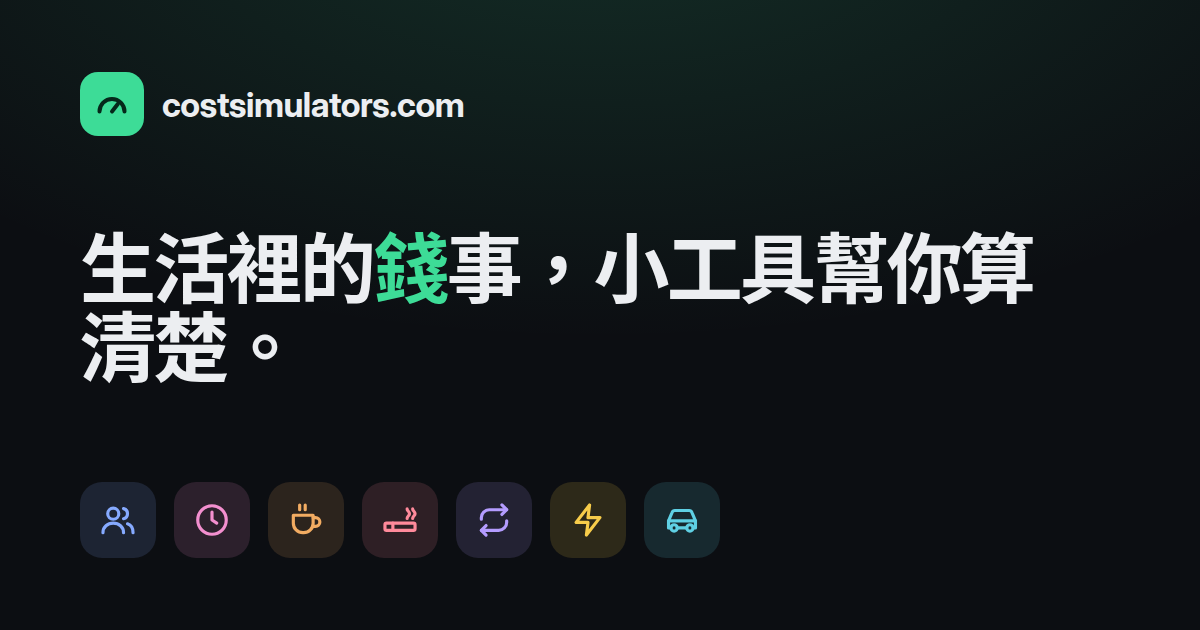
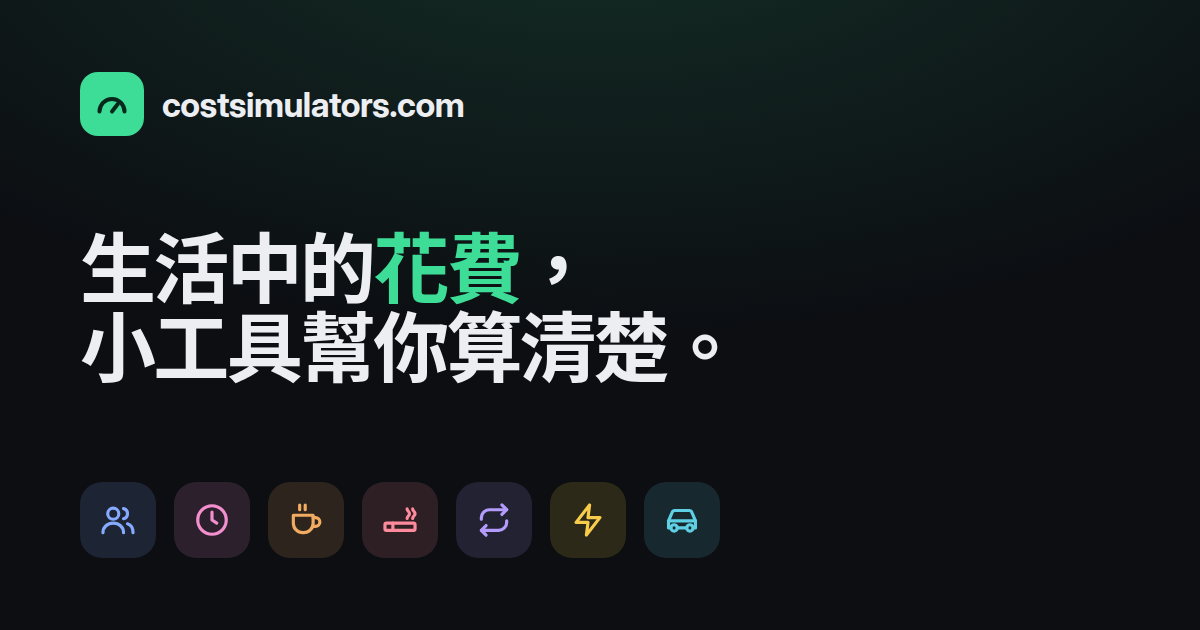
Review Traditional Chinese and Danish
- Traditional Chinese: new home heading "生活中的花費，小工具幫你算清楚。"
  with a break point after the comma, tool names in the about page match
  the page headings, Taiwanese "聯絡", smoother coffee and smoking texts.
- Danish: plural "dage"/"uger" after decimal numbers, a complete
  electricity note, "uden tilmelding" in the about page and smaller
  wording fixes.

Claude-Session: https://claude.ai/code/session_01Detm28ADoNodsNYibQeEJn

Changed region(s): [[0.0617, 0.3619, 0.8633, 0.6333]]

diff --git a/site/locales/da/strings.js b/site/locales/da/strings.js
@@ -240,8 +240,8 @@ module.exports = {
           month: 'kr. pr. måned',
           year: 'kr. pr. år'
         },
-        days: { one: '{n} dag', other: '{n} dage' },
-        weeks: { one: '{n} uge', other: '{n} uger' },
+        days: { one: '{n} dage', other: '{n} dage' },
+        weeks: { one: '{n} uger', other: '{n} uger' },
         note: {
           empty: 'Indtast din løn, dine timer om ugen og en pris for at se, hvor længe du skal arbejde for det.',
           result: 'Beregnet med arbejdsdage på {hours} timer, {days} dage om ugen.'
@@ -405,7 +405,7 @@ module.exports = {
       description: 'Læg streaming, fitnesscenter, mobil og alle andre abonnementer sammen. Se den samlede pris pr. måned, pr. år og over 10 år – og hvilket abonnement der koster mest.',
       card: 'Læg streaming, fitness og alle andre faste betalinger sammen ét sted.',
       tag: 'Budget',
-      lead: 'Skriv alt det op, du betaler for fast, og se, hvad det løber op i tilsammen. Månedlig, årlig og ugentlig betaling kan alle bruges.',
+      lead: 'Skriv alt det op, du betaler for fast, og se, hvad det løber op i tilsammen. Både månedlig, årlig og ugentlig betaling kan bruges.',
       listTitle: 'Dine abonnementer',
       empty: 'Ingen abonnementer endnu. Tilføj et nedenfor, eller vælg et af hurtigvalgene.',
       add: 'Tilføj abonnement',
@@ -524,7 +524,7 @@ module.exports = {
       runtime: {
         note: {
           empty: 'Indtast effekten, timer om dagen (højst 24), dage om ugen (højst 7) og din elpris.',
-          result: 'Bruger ca. {day} hver dag, det er tændt, og omkring {year} om året.'
+          result: 'Apparatet bruger ca. {day} pr. brugsdag og omkring {year} om året.'
         }
       },
       about: {
@@ -637,7 +637,7 @@ module.exports = {
       about: {
         title: 'Sådan beregnes turens pris',
         paragraphs: [
-          'Brændstofforbruget er afstanden × forbruget ÷ 100. Er der 25 km hver vej til arbejde (50 km om dagen), og bruger bilen 6,5 l/100 km, går der 3,25 liter brændstof. Gang med literprisen for at få turens pris, og divider med antallet af personer for at dele den.',
+          'Brændstofforbruget er afstanden × forbruget ÷ 100. Er der 25 km hver vej til arbejde (50 km om dagen), og bruger bilen 6,5 l/100 km, går der 3,25 liter brændstof om dagen. Gang med literprisen for at få turens pris, og divider med antallet af personer for at dele den.',
           'I Danmark oplyses bilers forbrug ofte i km/l: 100 ÷ km/l giver l/100 km, så 20 km/l svarer til 5 l/100 km. Med miles og gallons divideres afstanden med bilens mpg (miles pr. gallon). Når du skifter enheder, omregnes de værdier, du har indtastet, så du kan sammenligne tal fra begge systemer.',
           'Beløbene pr. måned og pr. år bygger på antallet af ture om ugen – 5 ture frem og tilbage om ugen er typisk pendling. Kører du elbil, så indtast i stedet forbruget i kWh/100 km og prisen pr. kWh.'
         ]

diff --git a/site/locales/zh-hant/strings.js b/site/locales/zh-hant/strings.js
@@ -60,7 +60,7 @@ module.exports = {
     title: '免費生活花費計算機：日常開銷一算就清楚 | costsimulators.com',
     description: '免費又保護隱私的計算機，算出開會、工時、咖啡、抽菸、訂閱、電費和油錢的真實花費。免註冊，直接在瀏覽器中計算。',
     eyebrow: '免費 · 隱私 · 即時',
-    heading: '生活裡的<span class="accent-text">錢</span>事，小工具幫你算清楚。',
+    heading: '生活中的<span class="accent-text">花費</span>，<wbr>小工具幫你算清楚。',
     lead: '簡單好用的計算機，讓你看清每樣東西真正的花費。不用註冊、不會追蹤，所有計算都在你的瀏覽器裡完成。',
     toolsTitle: '工具',
     toolCount: '{count} 個工具',
@@ -312,7 +312,7 @@ module.exports = {
         title: '咖啡花費怎麼算',
         paragraphs: [
           '一年的花費 = 每杯價格 × 每週杯數 × 52 週。每月花費是年花費除以 12，5 年和 10 年的總額則直接以年花費相乘，不計入通膨或漲價。',
-          '每個上班日買一杯 80 元的咖啡，一年大約 20,800 元，十年就是 208,000 元。如果這個數字讓你嚇一跳，在家自己沖咖啡，或自備環保杯享折扣，都是輕鬆省錢的好方法。',
+          '每個上班日買一杯 80 元的咖啡，一年就要 20,800 元，十年就是 208,000 元。如果這個數字讓你嚇一跳，在家自己沖咖啡，或自備環保杯享折扣，都是輕鬆省錢的好方法。',
           '這個計算機也適用於任何固定的小額消費，像是手搖飲、午餐便當或一瓶礦泉水。輸入價格和每週買幾次就行了。'
         ]
       },
@@ -378,7 +378,7 @@ module.exports = {
       about: {
         title: '抽菸花費怎麼算',
         paragraphs: [
-          '一根菸的價格是每包價格除以每包根數，再乘以每天抽的根數和 365 天，就是一年的花費。每月花費是年花費的十二分之一，5 年和 10 年的總額則以目前價格計算。',
+          '每包價格除以每包根數就是一根菸的價格，再乘以每天抽的根數和 365 天，就是一年的花費。每月花費是年花費的十二分之一，5 年和 10 年的總額則以目前價格計算。',
           '每天抽半包、每包 110 元，一年約 20,000 元，十年就超過 20 萬元。看到總額往往是很大的動力：同樣的錢可以拿去旅行、存起來或還清債務。',
           '計算機只計算香菸本身的價格，健康損失、醫療支出和請病假的代價都還沒算進去。如果想戒菸，可以撥打國民健康署免費戒菸專線 0800-63-63-63，或到醫院、診所的戒菸門診尋求協助。'
         ]

diff --git a/public/zh-hant/privacy/index.html b/public/zh-hant/privacy/index.html
@@ -298,7 +298,7 @@ SOFTWARE.
 
                 <section aria-labelledby="basis">
                     <h2 id="basis">6. 法律依據</h2>
-                    <p>技術性請求資料是基於正當利益而處理（歐盟一般資料保護規則（GDPR）第 6 條第 1 項第 f 款）：提供正常運作且安全的網站需要這些資料。電子郵件往來也基於相同依據處理，以便回覆你。將主題和語言選擇儲存在你的瀏覽器中，則是提供你所要求的功能所絕對必要。</p>
+                    <p>技術性請求資料係依歐盟一般資料保護規則（GDPR）第 6 條第 1 項第 f 款，基於正當利益而處理：提供正常運作且安全的網站需要這些資料。電子郵件往來也基於相同依據處理，以便回覆你。將主題和語言選擇儲存在你的瀏覽器中，則是提供你所要求的功能所絕對必要。</p>
                 </section>
 
                 <section aria-labelledby="transfers">
@@ -309,7 +309,7 @@ SOFTWARE.
                 <section aria-labelledby="rights">
                     <h2 id="rights">8. 你的權利</h2>
                     <p>依據 GDPR，你有權請求查閱、更正及刪除你的個人資料，有權限制或反對其處理，並在適用時行使資料可攜權。由於本網站不會識別訪客，通常沒有可以連結到你的資料，但仍歡迎來信 <a href="mailto:timo.heimonen@proton.me">timo.heimonen@proton.me</a> 詢問。</p>
-                    <p>你也有權向資料保護監管機關提出申訴。在芬蘭，主管機關是<a href="https://tietosuoja.fi/en" target="_blank" rel="noopener noreferrer">芬蘭資料保護監察使辦公室</a>；你也可以聯繫你所在國家的主管機關。</p>
+                    <p>你也有權向資料保護監管機關提出申訴。在芬蘭，主管機關是<a href="https://tietosuoja.fi/en" target="_blank" rel="noopener noreferrer">芬蘭資料保護監察使辦公室</a>；你也可以聯絡你所在國家的主管機關。</p>
                 </section>
 
                 <section aria-labelledby="children">

diff --git a/site/locales/zh-hant/privacy.html b/site/locales/zh-hant/privacy.html
@@ -59,7 +59,7 @@
 
                 <section aria-labelledby="basis">
                     <h2 id="basis">6. 法律依據</h2>
-                    <p>技術性請求資料是基於正當利益而處理（歐盟一般資料保護規則（GDPR）第 6 條第 1 項第 f 款）：提供正常運作且安全的網站需要這些資料。電子郵件往來也基於相同依據處理，以便回覆你。將主題和語言選擇儲存在你的瀏覽器中，則是提供你所要求的功能所絕對必要。</p>
+                    <p>技術性請求資料係依歐盟一般資料保護規則（GDPR）第 6 條第 1 項第 f 款，基於正當利益而處理：提供正常運作且安全的網站需要這些資料。電子郵件往來也基於相同依據處理，以便回覆你。將主題和語言選擇儲存在你的瀏覽器中，則是提供你所要求的功能所絕對必要。</p>
                 </section>
 
                 <section aria-labelledby="transfers">
@@ -70,7 +70,7 @@
                 <section aria-labelledby="rights">
                     <h2 id="rights">8. 你的權利</h2>
                     <p>依據 GDPR，你有權請求查閱、更正及刪除你的個人資料，有權限制或反對其處理，並在適用時行使資料可攜權。由於本網站不會識別訪客，通常沒有可以連結到你的資料，但仍歡迎來信 <a href="mailto:timo.heimonen@proton.me">timo.heimonen@proton.me</a> 詢問。</p>
-                    <p>你也有權向資料保護監管機關提出申訴。在芬蘭，主管機關是<a href="https://tietosuoja.fi/en" target="_blank" rel="noopener noreferrer">芬蘭資料保護監察使辦公室</a>；你也可以聯繫你所在國家的主管機關。</p>
+                    <p>你也有權向資料保護監管機關提出申訴。在芬蘭，主管機關是<a href="https://tietosuoja.fi/en" target="_blank" rel="noopener noreferrer">芬蘭資料保護監察使辦公室</a>；你也可以聯絡你所在國家的主管機關。</p>
                 </section>
 
                 <section aria-labelledby="children">

diff --git a/public/da/work-hours-calculator/index.html b/public/da/work-hours-calculator/index.html
@@ -238,7 +238,7 @@ SOFTWARE.
     <link rel="stylesheet" href="/css/main.css">
     <script src="/js/theme.js"></script>
     <script src="/js/lang.js"></script>
-    <script type="application/json" id="i18n">{"locale":"da-DK","currency":"DKK","decimals":2,"strings":{"share":{"linkCopied":"Linket er kopieret","copyFailed":"Kopiering mislykkedes","copied":"Kopieret!","calculatedWith":"Beregnet med costsimulators.com"},"workTime":{"minutes":"{m} min.","hours":"{h} timer","hoursMinutes":"{h} t. {m} min."},"unit":{"hour":"kr. pr. time","month":"kr. pr. måned","year":"kr. pr. år"},"days":{"one":"{n} dag","other":"{n} dage"},"weeks":{"one":"{n} uge","other":"{n} uger"},"note":{"empty":"Indtast din løn, dine timer om ugen og en pris for at se, hvor længe du skal arbejde for det.","result":"Beregnet med arbejdsdage på {hours} timer, {days} dage om ugen."}}}</script>
+    <script type="application/json" id="i18n">{"locale":"da-DK","currency":"DKK","decimals":2,"strings":{"share":{"linkCopied":"Linket er kopieret","copyFailed":"Kopiering mislykkedes","copied":"Kopieret!","calculatedWith":"Beregnet med costsimulators.com"},"workTime":{"minutes":"{m} min.","hours":"{h} timer","hoursMinutes":"{h} t. {m} min."},"unit":{"hour":"kr. pr. time","month":"kr. pr. måned","year":"kr. pr. år"},"days":{"one":"{n} dage","other":"{n} dage"},"weeks":{"one":"{n} uger","other":"{n} uger"},"note":{"empty":"Indtast din løn, dine timer om ugen og en pris for at se, hvor længe du skal arbejde for det.","result":"Beregnet med arbejdsdage på {hours} timer, {days} dage om ugen."}}}</script>
     <script src="/js/core.js" defer></script>
     <script src="/js/ui.js" defer></script>
     <script src="/js/tools/workhours.js" defer></script>

diff --git a/public/da/electricity-cost-calculator/index.html b/public/da/electricity-cost-calculator/index.html
@@ -246,7 +246,7 @@ SOFTWARE.
     <link rel="stylesheet" href="/css/main.css">
     <script src="/js/theme.js"></script>
     <script src="/js/lang.js"></script>
-    <script type="application/json" id="i18n">{"locale":"da-DK","currency":"DKK","decimals":2,"strings":{"share":{"linkCopied":"Linket er kopieret","copyFailed":"Kopiering mislykkedes","copied":"Kopieret!","calculatedWith":"Beregnet med costsimulators.com"},"workTime":{"minutes":"{m} min.","hours":"{h} timer","hoursMinutes":"{h} t. {m} min."},"note":{"empty":"Indtast effekten, timer om dagen (højst 24), dage om ugen (højst 7) og din elpris.","result":"Bruger ca. {day} hver dag, det er tændt, og omkring {year} om året."}}}</script>
+    <script type="application/json" id="i18n">{"locale":"da-DK","currency":"DKK","decimals":2,"strings":{"share":{"linkCopied":"Linket er kopieret","copyFailed":"Kopiering mislykkedes","copied":"Kopieret!","calculatedWith":"Beregnet med costsimulators.com"},"workTime":{"minutes":"{m} min.","hours":"{h} timer","hoursMinutes":"{h} t. {m} min."},"note":{"empty":"Indtast effekten, timer om dagen (højst 24), dage om ugen (højst 7) og din elpris.","result":"Apparatet bruger ca. {day} pr. brugsdag og omkring {year} om året."}}}</script>
     <script src="/js/core.js" defer></script>
     <script src="/js/ui.js" defer></script>
     <script src="/js/tools/electricity.js" defer></script>

diff --git a/public/da/trip-cost-calculator/index.html b/public/da/trip-cost-calculator/index.html
@@ -440,7 +440,7 @@ SOFTWARE.
 
         <section class="info-section info-prose reveal" aria-labelledby="aboutTitle">
             <h2 class="info-title" id="aboutTitle">Sådan beregnes turens pris</h2>
-            <p>Brændstofforbruget er afstanden × forbruget ÷ 100. Er der 25 km hver vej til arbejde (50 km om dagen), og bruger bilen 6,5 l/100 km, går der 3,25 liter brændstof. Gang med literprisen for at få turens pris, og divider med antallet af personer for at dele den.</p>
+            <p>Brændstofforbruget er afstanden × forbruget ÷ 100. Er der 25 km hver vej til arbejde (50 km om dagen), og bruger bilen 6,5 l/100 km, går der 3,25 liter brændstof om dagen. Gang med literprisen for at få turens pris, og divider med antallet af personer for at dele den.</p>
             <p>I Danmark oplyses bilers forbrug ofte i km/l: 100 ÷ km/l giver l/100 km, så 20 km/l svarer til 5 l/100 km. Med miles og gallons divideres afstanden med bilens mpg (miles pr. gallon). Når du skifter enheder, omregnes de værdier, du har indtastet, så du kan sammenligne tal fra begge systemer.</p>
             <p>Beløbene pr. måned og pr. år bygger på antallet af ture om ugen – 5 ture frem og tilbage om ugen er typisk pendling. Kører du elbil, så indtast i stedet forbruget i kWh/100 km og prisen pr. kWh.</p>
         </section>

diff --git a/public/zh-hant/smoking-cost-calculator/index.html b/public/zh-hant/smoking-cost-calculator/index.html
@@ -398,7 +398,7 @@ SOFTWARE.
 
         <section class="info-section info-prose reveal" aria-labelledby="aboutTitle">
             <h2 class="info-title" id="aboutTitle">抽菸花費怎麼算</h2>
-            <p>一根菸的價格是每包價格除以每包根數，再乘以每天抽的根數和 365 天，就是一年的花費。每月花費是年花費的十二分之一，5 年和 10 年的總額則以目前價格計算。</p>
+            <p>每包價格除以每包根數就是一根菸的價格，再乘以每天抽的根數和 365 天，就是一年的花費。每月花費是年花費的十二分之一，5 年和 10 年的總額則以目前價格計算。</p>
             <p>每天抽半包、每包 110 元，一年約 20,000 元，十年就超過 20 萬元。看到總額往往是很大的動力：同樣的錢可以拿去旅行、存起來或還清債務。</p>
             <p>計算機只計算香菸本身的價格，健康損失、醫療支出和請病假的代價都還沒算進去。如果想戒菸，可以撥打國民健康署免費戒菸專線 0800-63-63-63，或到醫院、診所的戒菸門診尋求協助。</p>
         </section>

diff --git a/public/da/about/index.html b/public/da/about/index.html
@@ -310,7 +310,7 @@ SOFTWARE.
                 <section aria-labelledby="why">
                     <h2 id="why">Hvorfor costsimulators.com findes</h2>
                     <p>Små udgifter er lette at overse. Et enkelt møde, en kaffe på vej til arbejde eller endnu en streamingtjeneste føles sjældent dyrt i sig selv. Men læg dem sammen over en måned, et år eller et årti, så begynder tallene at se helt anderledes ud.</p>
-                    <p>costsimulators.com gør hverdagens pengespørgsmål til klare svar på et øjeblik. Hvert værktøj gør én ting, spørger kun om de tal, det har brug for, og viser resultatet med det samme, så du kan træffe bedre beslutninger om din tid og dine penge – uden regneark og uden at oprette dig.</p>
+                    <p>costsimulators.com gør hverdagens pengespørgsmål til klare svar på et øjeblik. Hvert værktøj gør én ting, spørger kun om de tal, det har brug for, og viser resultatet med det samme, så du kan træffe bedre beslutninger om din tid og dine penge – uden regneark og uden tilmelding.</p>
                 </section>
 
                 <section aria-labelledby="tools">

diff --git a/site/locales/da/about.html b/site/locales/da/about.html
@@ -18,7 +18,7 @@
                 <section aria-labelledby="why">
                     <h2 id="why">Hvorfor costsimulators.com findes</h2>
                     <p>Små udgifter er lette at overse. Et enkelt møde, en kaffe på vej til arbejde eller endnu en streamingtjeneste føles sjældent dyrt i sig selv. Men læg dem sammen over en måned, et år eller et årti, så begynder tallene at se helt anderledes ud.</p>
-                    <p>costsimulators.com gør hverdagens pengespørgsmål til klare svar på et øjeblik. Hvert værktøj gør én ting, spørger kun om de tal, det har brug for, og viser resultatet med det samme, så du kan træffe bedre beslutninger om din tid og dine penge – uden regneark og uden at oprette dig.</p>
+                    <p>costsimulators.com gør hverdagens pengespørgsmål til klare svar på et øjeblik. Hvert værktøj gør én ting, spørger kun om de tal, det har brug for, og viser resultatet med det samme, så du kan træffe bedre beslutninger om din tid og dine penge – uden regneark og uden tilmelding.</p>
                 </section>
 
                 <section aria-labelledby="tools">

diff --git a/public/zh-hant/about/index.html b/public/zh-hant/about/index.html
@@ -324,7 +324,7 @@ SOFTWARE.
                         </li>
                         <li>
                             <a class="about-tool tool--workhours" href="/zh-hant/work-hours-calculator/">
-                                <h3>價格換算工時</h3>
+                                <h3>價格換算工時計算機</h3>
                                 <p>依你的時薪、月薪或年薪，把任何價格換算成需要工作的小時、天數和週數。</p>
                             </a>
                         </li>
@@ -354,7 +354,7 @@ SOFTWARE.
                         </li>
                         <li>
                             <a class="about-tool tool--trip" href="/zh-hant/trip-cost-calculator/">
-                                <h3>旅程與通勤油錢計算機</h3>
+                                <h3>開車油錢計算機</h3>
                                 <p>以公里與公升或英里與加侖，計算一趟車程或每天通勤的油錢，並由車上所有人一起分攤。</p>
                             </a>
                         </li>

diff --git a/public/zh-hant/coffee-cost-calculator/index.html b/public/zh-hant/coffee-cost-calculator/index.html
@@ -383,7 +383,7 @@ SOFTWARE.
         <section class="info-section info-prose reveal" aria-labelledby="aboutTitle">
             <h2 class="info-title" id="aboutTitle">咖啡花費怎麼算</h2>
             <p>一年的花費 = 每杯價格 × 每週杯數 × 52 週。每月花費是年花費除以 12，5 年和 10 年的總額則直接以年花費相乘，不計入通膨或漲價。</p>
-            <p>每個上班日買一杯 80 元的咖啡，一年大約 20,800 元，十年就是 208,000 元。如果這個數字讓你嚇一跳，在家自己沖咖啡，或自備環保杯享折扣，都是輕鬆省錢的好方法。</p>
+            <p>每個上班日買一杯 80 元的咖啡，一年就要 20,800 元，十年就是 208,000 元。如果這個數字讓你嚇一跳，在家自己沖咖啡，或自備環保杯享折扣，都是輕鬆省錢的好方法。</p>
             <p>這個計算機也適用於任何固定的小額消費，像是手搖飲、午餐便當或一瓶礦泉水。輸入價格和每週買幾次就行了。</p>
         </section>
 
